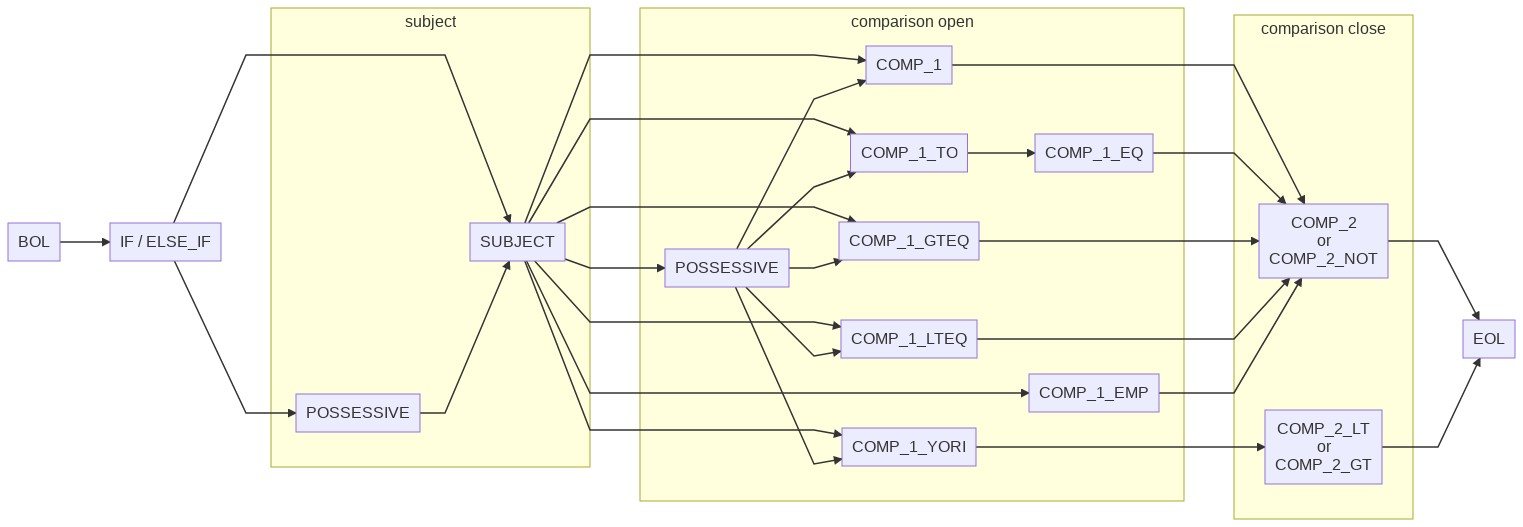
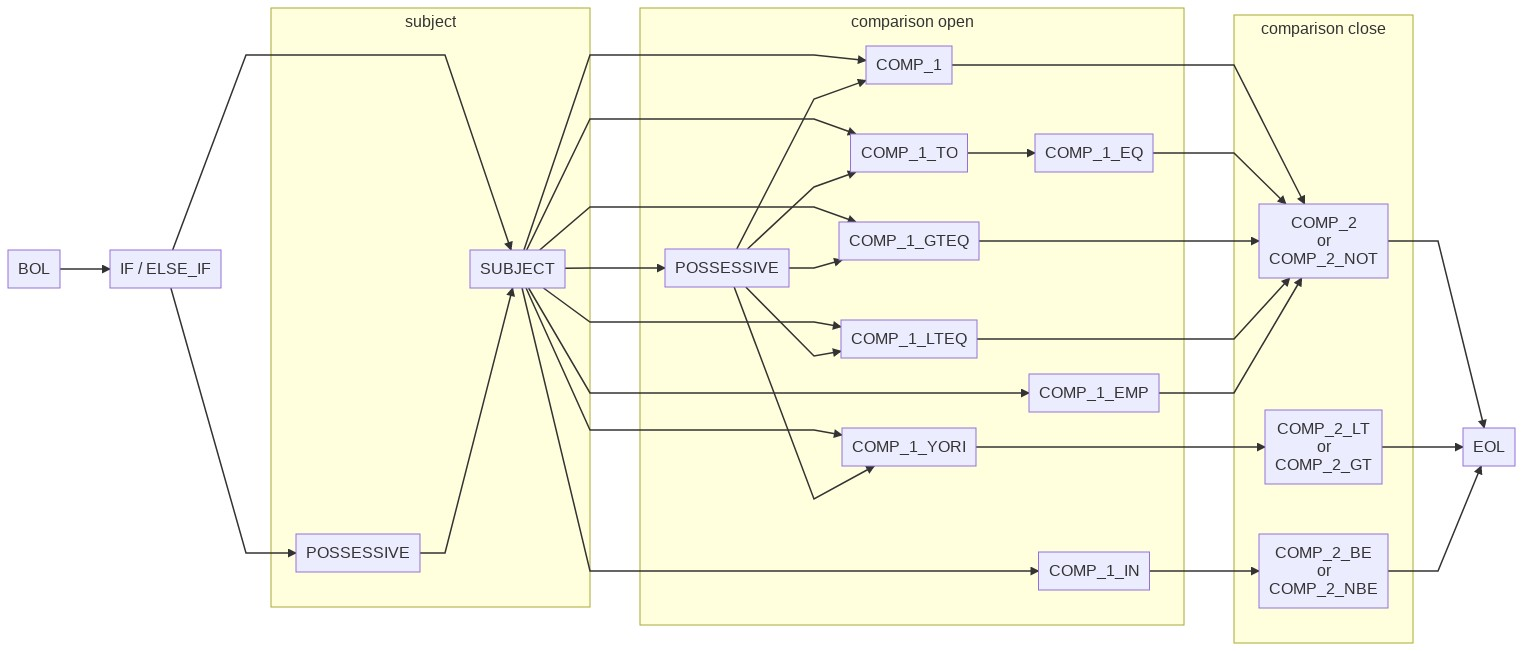
update nfsm

diff --git a/documentation/nfsm.md b/documentation/nfsm.md
@@ -182,6 +182,7 @@ POSSESSIVE ? SUBJECT
 POSSESSIVE ? (
   ( COMP_1 | (COMP_1_TO COMP_1_EQ) | COMP_1_GTEQ | COMP_1_LTEQ | COMP_1_EMP ) ( COMP_2 | COMP_2_NOT )
   | COMP_1_YORI ( COMP_2_LT | COMP_2_GT )
+  | COMP_1_IN ( COMP_2_BE | COMP_2_NBE )
 )
 EOL
 ```
@@ -200,6 +201,7 @@ graph LR
   SUBJECT --> COMP_1_LTEQ
   SUBJECT --> POSSESSIVE_2[POSSESSIVE]
   SUBJECT --> COMP_1_EMP
+  SUBJECT --> COMP_1_IN
 
   COMP_1 --> COMP_2["COMP_2<br>or<br>COMP_2_NOT"]
 
@@ -213,8 +215,11 @@ graph LR
 
   COMP_1_EMP --> COMP_2
 
+  COMP_1_IN --> COMP_2_BENBE["COMP_2_BE<br>or<br>COMP_2_NBE"]
+
   COMP_2 --> EOL
   COMP_2_LTGT --> EOL
+  COMP_2_BENBE --> EOL
 
   subgraph subject
     POSSESSIVE_1 --> SUBJECT
@@ -228,11 +233,13 @@ graph LR
     POSSESSIVE_2 --> COMP_1_LTEQ
     COMP_1_EQ
     COMP_1_EMP
+    COMP_1_IN
   end
 
   subgraph comparison close
     COMP_2
     COMP_2_LTGT
+    COMP_2_BENBE
   end
 ```
 

diff --git a/documentation/planning.md b/documentation/planning.md
@@ -4,35 +4,6 @@
 
 ## v2.0.0
 
-### Inside Array Condition
-
-```
-もし ホゲが フガの 中に あれば
-もし ホゲが フガの 中に なければ
-```
-
-Grammar:
-
-```
-SUBJECT POSSESSIVE ? POSSESSIVE COMP_1_IN ( COMP_2_IN | COMP_2_NIN )
-
-↓
-
-BOL
-( IF | ELSE_IF )
-POSSESSIVE ? SUBJECT
-POSSESSIVE ? (
-  ( COMP_1 | (COMP_1_TO COMP_1_EQ) | COMP_1_GTEQ | COMP_1_LTEQ | COMP_1_EMP ) ( COMP_2 | COMP_2_NOT )
-  | COMP_1_YORI ( COMP_2_LT | COMP_2_GT )
-  | COMP_1_IN ( COMP_2_BE | COMP_2_NBE )
-)
-EOL
-```
-
-* あれば、なければ、いれば、いなければ、ある、いる、ない、あり、い、なく、いなく
-* Also: `IN_YES_U` for "adjectival"  (for `while`), `IN_YES_I` for "conjunctive" (for multiple condition)
-* Update nfsm
-
 ### Multiple Condition Branch
 
 * should combine if-condition and if-function-call
